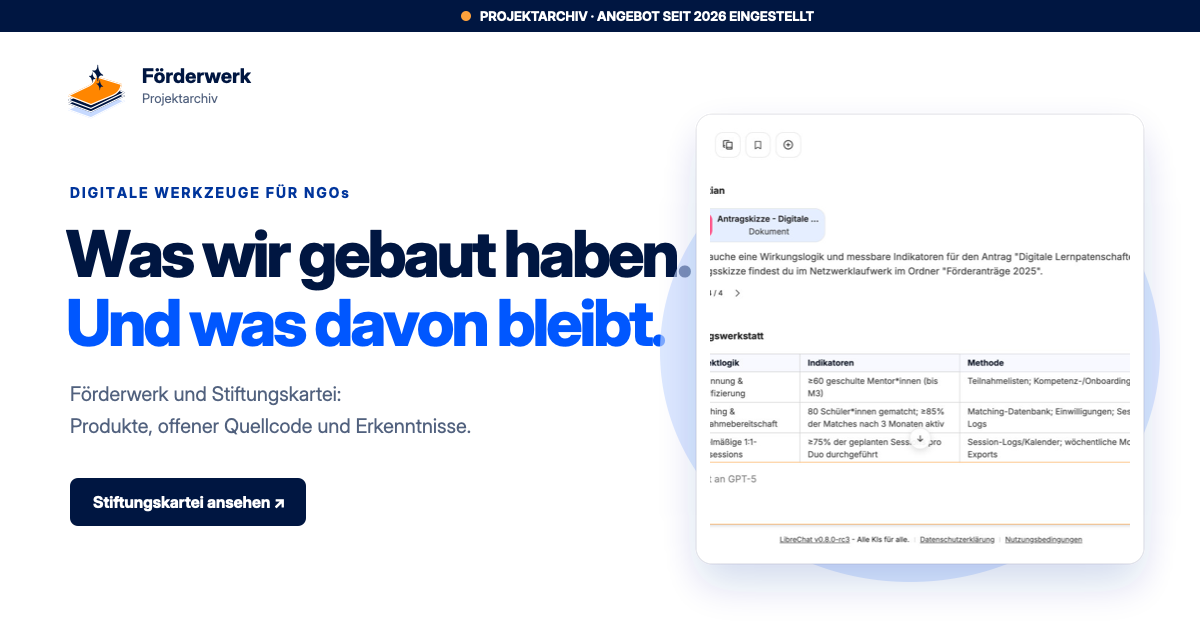
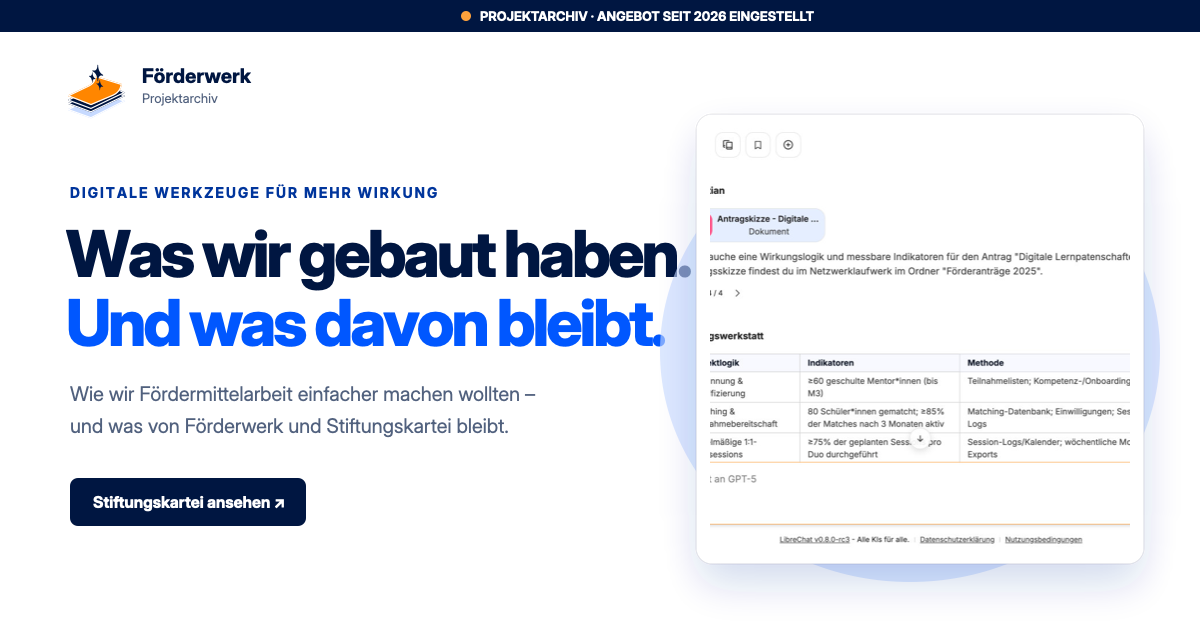
Refine Förderwerk archive copy

Changed region(s): [[0.0617, 0.6032, 0.4317, 0.6937], [0.2467, 0.3016, 0.37, 0.3317]]

diff --git a/src/views/StiftungskarteiCaseStudy.vue b/src/views/StiftungskarteiCaseStudy.vue
@@ -7,7 +7,7 @@ defineProps<{ homeHref: string; archivePath: (path: string) => string }>();
   <section class="case-hero page-width">
     <p class="eyebrow">Produktfallstudie · 2025–2026</p>
     <h1>Stiftungskartei.<br /><span>Smart suchen, mehr wirken.</span></h1>
-    <p class="hero-copy">Eine KI-gestützte Suchmaschine, die den Kontext gemeinnütziger Organisationen mit einer strukturierten Datenbasis von mehr als 12.000 deutschen Stiftungen verband.</p>
+    <p class="hero-copy">Stiftungskartei sollte die aufwändige Stiftungsrecherche einfacher machen: mit drei Suchwegen, mehr als 12.000 aufbereiteten Stiftungsprofilen und Ergebnissen, die nicht nur auf gleiche Wörter, sondern auf den inhaltlichen Zusammenhang schauten.</p>
     <div class="case-meta">
       <div><span>Rolle</span><strong>Produkt, UX, Data & Engineering</strong></div>
       <div><span>Phase</span><strong>Öffentliche Beta</strong></div>
@@ -22,34 +22,34 @@ defineProps<{ homeHref: string; archivePath: (path: string) => string }>();
   <section class="case-cover page-width"><img :src="archivePath('screenshots/stiftungskartei-home.png')" alt="Startseite der Stiftungskartei" /></section>
 
   <section class="case-narrative content-section page-width">
-    <div><p class="section-label">Ausgangslage</p><h2>Recherche kostete Zeit, bevor die eigentliche Arbeit begann.</h2></div>
-    <div class="narrative-copy"><p>Stiftungsinformationen waren über Register, Webseiten und Dokumente verteilt. Klassische Datenbanken verlangten passendes Vokabular und viel manuelle Vorqualifizierung – eine hohe Hürde für kleine Organisationen.</p><blockquote>Wie kann eine Organisation beschreiben, was sie bewirken will, statt erst die richtige Suchsprache lernen zu müssen?</blockquote></div>
+    <div><p class="section-label">Ausgangslage</p><h2>Die passende Stiftung zu finden war oft Detektivarbeit.</h2></div>
+    <div class="narrative-copy"><p>Informationen lagen verstreut in Registern, auf Webseiten und in PDF-Berichten. Wer Fördermöglichkeiten finden wollte, musste passende Suchbegriffe kennen, Ergebnisse vergleichen und jede Stiftung einzeln prüfen. Gerade für kleine Organisationen ging dabei viel Zeit verloren – Zeit, die an anderer Stelle fehlte.</p><blockquote>Wie können Organisationen beschreiben, was sie bewirken wollen, ohne zuerst die richtige Suchsprache lernen zu müssen?</blockquote></div>
   </section>
 
   <section class="feature-line page-width" aria-label="Produktmerkmale">
-    <article><Search :size="24" /><div><h3>Drei Einstiege</h3><p>KI-Suche, Namenssuche und Profi-Filter.</p></div></article>
-    <article><Sparkles :size="24" /><div><h3>Semantisches Matching</h3><p>Mission, Zielgruppen, Vorhaben und Region.</p></div></article>
-    <article><FileText :size="24" /><div><h3>Erklärbare Profile</h3><p>Kontakte, Projekte, Antragswege und Quellen.</p></div></article>
+    <article><Search :size="24" /><div><h3>Drei Wege zur Suche</h3><p>Über die Organisation, einen Namen oder gezielte Filter.</p></div></article>
+    <article><Sparkles :size="24" /><div><h3>Mehr als Schlagwörter</h3><p>Mission, Zielgruppen, Vorhaben und Region im Zusammenhang.</p></div></article>
+    <article><FileText :size="24" /><div><h3>Alles an einem Ort</h3><p>Kontakte, Projekte, Antragswege und Quellen im Überblick.</p></div></article>
   </section>
 
   <section class="content-section page-width screencast-section">
-    <div class="section-intro compact"><p class="section-label">Produkt in Bewegung</p><h2>Ein letzter Rundgang durch die Stiftungskartei.</h2><p>Die Aufnahme zeigt öffentliche Produktzustände mit neutralen Stiftungsdaten – ohne Accounts oder Nutzerdaten.</p></div>
+    <div class="section-intro compact"><p class="section-label">Produkt in Bewegung</p><h2>So sah Stiftungskartei in ihrer letzten öffentlichen Version aus.</h2><p>Der kurze Rundgang führt von der direkten Suche zu den Ergebnissen und weiter in ein Stiftungsprofil. Zu sehen sind ausschließlich öffentliche, neutrale Stiftungsdaten – keine Accounts oder Nutzerdaten.</p></div>
     <div class="video-frame"><video controls preload="metadata" :poster="archivePath('screenshots/stiftungskartei-home.png')" :src="archivePath('video/stiftungskartei-screencast.webm')" aria-label="Stiller Rundgang durch die archivierte Stiftungskartei"></video></div>
   </section>
 
   <section class="walkthrough content-section page-width">
-    <div class="walkthrough-copy"><p class="section-label">01 · Finden</p><h2>Von einem Namen zu einer überschaubaren Vorauswahl.</h2><p>Die direkte Suche zeigte relevante Themen, Zielgruppen und Beispiele unmittelbar in kompakten Ergebnisprofilen.</p></div>
+    <div class="walkthrough-copy"><p class="section-label">01 · Finden</p><h2>Vom Namen zur ersten brauchbaren Auswahl.</h2><p>Schon in der Trefferliste wurden Themen, Zielgruppen und geförderte Projekte sichtbar. So ließ sich schneller einschätzen, welche Stiftungen einen genaueren Blick wert waren.</p></div>
     <a class="screenshot-frame" :href="archivePath('screenshots/stiftungskartei-search.png')"><img :src="archivePath('screenshots/stiftungskartei-search.png')" alt="Suchergebnisliste der Stiftungskartei" loading="lazy" /></a>
   </section>
 
   <section class="walkthrough reverse content-section page-width">
-    <div class="walkthrough-copy"><p class="section-label">02 · Verstehen</p><h2>Struktur statt Linkliste.</h2><p>Detailseiten bündelten Stiftungszweck, Zielgruppen, Projekte, geografische Einschränkungen, Kontakte, Antragsmöglichkeiten und Quellen.</p></div>
+    <div class="walkthrough-copy"><p class="section-label">02 · Verstehen</p><h2>Alle wichtigen Informationen an einem Ort.</h2><p>Die Detailseiten bündelten Stiftungszweck, Zielgruppen, Projekte, regionale Einschränkungen, Kontakte, Antragsmöglichkeiten und Quellen. Aus verstreuten Fundstellen wurde ein Steckbrief, mit dem man weiterarbeiten konnte.</p></div>
     <a class="screenshot-frame tall" :href="archivePath('screenshots/stiftungskartei-foundation-detail.png')"><img :src="archivePath('screenshots/stiftungskartei-foundation-detail.png')" alt="Detailprofil einer Stiftung" loading="lazy" /></a>
   </section>
 
   <section class="architecture-section">
     <div class="page-width">
-      <div class="section-intro compact"><p class="section-label">Technische Architektur</p><h2>Vier Services, ein durchgängiger Recherchefluss.</h2></div>
+      <div class="section-intro compact"><p class="section-label">Technische Architektur</p><h2>Was im Hintergrund zusammenarbeitete.</h2><p>Die Oberfläche war nur der sichtbare Teil. Dahinter verbanden vier spezialisierte Dienste Produkterlebnis, Datenbasis und semantische Suche.</p></div>
       <div class="architecture-flow">
         <div><Layers3 :size="24" /><strong>Nuxt Frontend</strong><span>Suche und Profile</span></div><b aria-hidden="true">→</b>
         <div><ServerCog :size="24" /><strong>FastAPI</strong><span>API und Orchestrierung</span></div><b aria-hidden="true">→</b>
@@ -61,16 +61,16 @@ defineProps<{ homeHref: string; archivePath: (path: string) => string }>();
   </section>
 
   <section class="content-section page-width lessons-section">
-    <div class="section-intro compact"><p class="section-label">Was die Fallstudie zeigt</p><h2>Produktarbeit an der Schnittstelle von Daten, KI und Vertrauen.</h2></div>
+    <div class="section-intro compact"><p class="section-label">Was wir gelernt haben</p><h2>Gute Suche entsteht nicht allein durch gute Technik.</h2><p>Die Rückmeldungen aus dem Beta-Test haben uns gezeigt, wie eng Datenqualität, verständliche Ergebnisse und Vertrauen zusammengehören.</p></div>
     <ol class="lesson-list">
-      <li><span>01</span><h3>KI braucht überprüfbare Informationsstrukturen.</h3><p>Treffer müssen durch Quellen, Kriterien und Details nachvollziehbar bleiben.</p></li>
-      <li><span>02</span><h3>Ein Suchprodukt braucht mehrere mentale Modelle.</h3><p>Menschen beginnen mit ihrer Organisation, einem Namen oder konkreten Filtern.</p></li>
-      <li><span>03</span><h3>Datenqualität ist selbst ein Produkt.</h3><p>Sammeln, Bereinigen und Aktualisieren waren ein zentraler Teil des Nutzerwerts.</p></li>
+      <li><span>01</span><h3>Gute KI-Ergebnisse müssen nachvollziehbar bleiben.</h3><p>Quellen, Kriterien und Details waren genauso wichtig wie die Reihenfolge der Treffer.</p></li>
+      <li><span>02</span><h3>Menschen suchen auf unterschiedliche Weise.</h3><p>Manche starten mit ihrer Organisation, andere mit einem Stiftungsnamen oder konkreten Filtern.</p></li>
+      <li><span>03</span><h3>Die Datenbasis war ein Teil des Produkts.</h3><p>Das Sammeln, Prüfen und Aktualisieren der Informationen schuf erst die Grundlage für eine hilfreiche Suche.</p></li>
     </ol>
   </section>
 
   <section class="case-end">
-    <div class="page-width"><p class="section-label">Open Source</p><h2>Ein dokumentiertes Produktkapitel.<br />Offen für die Zukunft.</h2><p>Die interaktive Suche ist eingestellt. Aufnahmen bewahren den letzten Stand; der bereinigte Code bleibt öffentlich verfügbar.</p>
+    <div class="page-width"><p class="section-label">Open Source</p><h2>Der Betrieb ist beendet.<br />Die Idee bleibt zugänglich.</h2><p>Stiftungskartei ist nicht mehr als interaktive Suche verfügbar. Dieses Archiv bewahrt den letzten öffentlichen Stand – und der bereinigte Quellcode zeigt, wie wir das Produkt gebaut haben.</p>
       <div class="hero-actions"><a class="button primary" href="https://github.com/sichgeis/stiftungskartei" target="_blank" rel="noreferrer"><CodeXml :size="17" /> Quellcode auf GitHub</a><a class="button secondary" :href="homeHref">Zurück zum Projektarchiv <ArrowUpRight :size="17" /></a></div>
     </div>
   </section>

diff --git a/src/views/ArchiveHome.vue b/src/views/ArchiveHome.vue
@@ -10,9 +10,9 @@ const heroImage = `${import.meta.env.BASE_URL}hero-image-librechat.jpg`;
 
 <template>
   <section class="home-hero page-width">
-    <p class="eyebrow">Digitale Werkzeuge für gemeinnützige Organisationen</p>
+    <p class="eyebrow">Digitale Werkzeuge für mehr Wirkung</p>
     <h1>Was wir gebaut haben.<br /><span>Und was davon bleibt.</span></h1>
-    <p class="hero-copy">Förderwerk und Stiftungskartei waren ein unabhängiges Produktvorhaben für bessere Fördermittelrecherche und Wissensarbeit. Heute bewahrt dieses Archiv die Produkte, den offenen Quellcode und die Erkenntnisse dahinter.</p>
+    <p class="hero-copy">Förderwerk entstand aus einer einfachen Frage: Wie können digitale Werkzeuge gemeinnützigen Organisationen mehr Zeit für ihre eigentliche Arbeit geben? Gemeinsam mit unserer Community haben wir daraus Stiftungskartei, einen KI-Arbeitsplatz und eine eigene Datenpipeline entwickelt. Dieses Archiv erzählt, was daraus geworden ist – und was bleibt.</p>
     <div class="hero-actions">
       <a class="button primary" href="./stiftungskartei/">Stiftungskartei ansehen <ArrowUpRight :size="18" /></a>
       <a class="button secondary" href="https://github.com/sichgeis/stiftungskartei" target="_blank" rel="noreferrer"><CodeXml :size="18" /> Open-Source-Projekt</a>
@@ -32,8 +32,8 @@ const heroImage = `${import.meta.env.BASE_URL}hero-image-librechat.jpg`;
   <section id="projekte" class="content-section page-width">
     <div class="section-intro">
       <p class="section-label">Das Projekt</p>
-      <h2>Drei Bausteine für eine zugänglichere Fördermittelarbeit.</h2>
-      <p>Produktdesign, Datenarbeit und KI-gestützte Recherche wurden zu einem zusammenhängenden Werkzeugkasten.</p>
+      <h2>Drei Bausteine, die Fördermittelarbeit einfacher machen sollten.</h2>
+      <p>Wir wollten nicht nur einzelne Schritte digitalisieren, sondern den gesamten Weg zusammendenken: von der Recherche über die Arbeit mit Wissen bis zur passenden Förderung.</p>
     </div>
     <div class="project-list">
       <article v-for="project in projects" :key="project.number" class="project-row">
@@ -53,7 +53,7 @@ const heroImage = `${import.meta.env.BASE_URL}hero-image-librechat.jpg`;
     <div class="featured-inner page-width">
       <div class="featured-copy">
         <p class="section-label">Fallstudie 01</p><h2>Stiftungskartei</h2><p class="case-tagline">Smart suchen, mehr wirken.</p>
-        <p>Eine KI-gestützte Suchmaschine, die den Kontext einer Organisation mit einer strukturierten Datenbasis von mehr als 12.000 deutschen Stiftungen verband.</p>
+        <p>Mit Stiftungskartei fing alles an. Statt sich durch Listen, Webseiten und PDF-Berichte zu arbeiten, konnten Organisationen auf drei Wegen nach passenden Stiftungen suchen – und die wichtigsten Informationen direkt vergleichen.</p>
         <a class="button primary" href="./stiftungskartei/">Produktfallstudie öffnen <ArrowUpRight :size="18" /></a>
       </div>
       <a class="screenshot-frame" :href="archivePath('screenshots/stiftungskartei-home.png')"><img :src="archivePath('screenshots/stiftungskartei-home.png')" alt="Die ehemalige Startseite der Stiftungskartei" /></a>
@@ -62,9 +62,9 @@ const heroImage = `${import.meta.env.BASE_URL}hero-image-librechat.jpg`;
 
   <section id="open-source" class="content-section page-width open-source-section">
     <div class="open-source-mark"><CodeXml :size="32" /></div>
-    <div><p class="section-label">Jetzt Open Source</p><h2>Der Betrieb endet. Der Code bleibt zugänglich.</h2></div>
+    <div><p class="section-label">Jetzt Open Source</p><h2>Der Betrieb ist beendet. Der Code bleibt offen.</h2></div>
     <div class="open-source-copy">
-      <p>Stiftungskartei und die Datenpipeline Stiftungs-Sammler sind als bereinigte Archivfassungen unter Apache-2.0 veröffentlicht. Die Originaldaten können auf Anfrage beim Projektinhaber bezogen werden.</p>
+      <p>Wir haben Stiftungskartei und den Stiftungs-Sammler bereinigt, dokumentiert und unter Apache-2.0 veröffentlicht. So lassen sich unsere Entscheidungen nachvollziehen und die Projekte lokal weiterentwickeln. Wer mit den ursprünglichen Daten arbeiten möchte, kann sie bei mir anfragen.</p>
       <div class="source-links">
         <a href="https://github.com/sichgeis/stiftungskartei" target="_blank" rel="noreferrer">Stiftungskartei <ArrowUpRight :size="17" /></a>
         <a href="https://github.com/sichgeis/stiftungs-sammler" target="_blank" rel="noreferrer">Stiftungs-Sammler <ArrowUpRight :size="17" /></a>
@@ -73,7 +73,7 @@ const heroImage = `${import.meta.env.BASE_URL}hero-image-librechat.jpg`;
   </section>
 
   <section id="journal" class="content-section page-width journal-section">
-    <div class="section-intro compact"><p class="section-label">Produktjournal · 2025</p><h2>Acht Notizen aus Entwicklung und Beta-Test.</h2><p>Originaltexte über Problemverständnis, Technologie und Erkenntnisse aus der Community.</p></div>
+    <div class="section-intro compact"><p class="section-label">Produktjournal · 2025</p><h2>Acht Einblicke in Entwicklung und Beta-Test.</h2><p>Wie wir das Problem verstanden, technische Entscheidungen getroffen und gemeinsam mit der Community dazugelernt haben.</p></div>
     <div class="journal-list">
       <article v-for="(post, index) in journalEntries" :key="post.title">
         <span class="journal-number">{{ String(index + 1).padStart(2, "0") }}</span>
@@ -85,8 +85,8 @@ const heroImage = `${import.meta.env.BASE_URL}hero-image-librechat.jpg`;
 
   <section class="retirement-note">
     <div class="page-width">
-      <p class="section-label">Status</p><h2>Das Angebot ist eingestellt.<br />Die Arbeit bleibt sichtbar.</h2>
-      <div><p>Förderwerk, Stiftungskartei und die zugehörigen Online-Dienste werden nicht mehr aktiv betrieben.</p><p>Dieses statische Archiv dokumentiert die frühere Produkt- und Entwicklungsarbeit – ohne Accounts, Tracking oder laufende Server.</p></div>
+      <p class="section-label">Status</p><h2>Das Angebot ist beendet.<br />Die Arbeit bleibt sichtbar.</h2>
+      <div><p>Wir betreiben Förderwerk, Stiftungskartei und die dazugehörigen Online-Dienste nicht mehr weiter.</p><p>Was bleibt, ist dieses statische Archiv: ein Rückblick auf unsere Produktarbeit, die Technik dahinter und das, was wir gemeinsam mit der Community gelernt haben – ohne Accounts, Tracking oder laufende Anwendungsserver.</p></div>
     </div>
   </section>
 </template>

diff --git a/src/content.ts b/src/content.ts
@@ -31,28 +31,28 @@ export const metrics = [
 export const projects: Project[] = [
   {
     number: "01", icon: "search", kind: "Rechercheprodukt", title: "Stiftungskartei",
-    description: "Eine semantische Stiftungssuche mit drei Einstiegen und nachvollziehbaren Profilen für mehr als 12.000 deutsche Stiftungen.",
+    description: "Drei Suchwege und mehr als 12.000 aufbereitete Stiftungsprofile machten aus verstreuten Informationen eine übersichtliche Recherche.",
     technologies: ["Nuxt", "FastAPI", "Postgres", "Redis"], href: "./stiftungskartei/", linkLabel: "Fallstudie ansehen",
   },
   {
     number: "02", icon: "bot", kind: "KI-Arbeitsplatz", title: "Förderwerk",
-    description: "Eine datenschutzorientierte Chat- und Arbeitsumgebung für NGOs, ergänzt um Recherche, Wissensspeicher und Fördermittel-Workflows.",
+    description: "Ein datenschutzorientierter KI-Arbeitsplatz, der Chat, eigenes Wissen und Werkzeuge für die Fördermittelarbeit an einem Ort zusammenbrachte.",
     technologies: ["LibreChat", "RAG", "MCP", "Docker"],
   },
   {
     number: "03", icon: "database", kind: "Datenpipeline", title: "Stiftungs-Sammler",
-    description: "Die Recherche- und Verarbeitungspipeline hinter der Stiftungskartei: sammeln, extrahieren, strukturieren und für die Suche aufbereiten.",
+    description: "Im Hintergrund sammelte der Stiftungs-Sammler öffentliche Informationen, prüfte Quellen und verwandelte Webseiten und PDFs in nutzbare Profile.",
     technologies: ["Python", "MongoDB", "Web Search", "LLMs"], href: "https://github.com/sichgeis/stiftungs-sammler", external: true, linkLabel: "Quellcode ansehen",
   },
 ];
 
 export const journalEntries: JournalEntry[] = [
-  { title: "Warum Stiftungssuche so aufwändig ist – und wie Stiftungskartei das ändert", author: "Janine", date: "18. Mai 2025", image: "janine.webp", source: "herausforderungen-stiftungsrecherche", excerpt: "Zersplitterte Verzeichnisse und unvollständige Informationen machten Stiftungsrecherche zur Detektivarbeit." },
-  { title: "Förderwerk: Der smarte Weg zu Fördermitteln", author: "Hauke", date: "26. Mai 2025", image: "hauke.webp", source: "foerderwerk-smarter-weg", excerpt: "Die Produktvision hinter einem Werkzeugkasten für Recherche, Antragstellung und Reporting." },
-  { title: "Wir laden ein zum Beta-Testing", author: "Christian", date: "2. Juni 2025", image: "christian.webp", source: "wir-laden-zur-beta-ein", excerpt: "Die Einladung, eine neue Form der Stiftungssuche gemeinsam mit uns zu testen." },
-  { title: "Technik-Insights: Semantische Suche vs. klassische Schlagwortsuche", author: "Hauke", date: "9. Juni 2025", image: "hauke.webp", source: "technik-insights-semantische-suche", excerpt: "Warum Bedeutungsähnlichkeit hilfreicher sein kann als das Abgleichen einzelner Begriffe." },
-  { title: "Alex – Unser KI-Marketeer bringt Stiftungskartei ins Gespräch", author: "Christian", date: "16. Juni 2025", image: "christian.webp", source: "alex", excerpt: "Ein Experiment mit einem digitalen Teammitglied für Recherche und Kontaktentwürfe." },
-  { title: "Technik-Insights: So analysieren wir die deutsche Stiftungslandschaft", author: "Christian", date: "23. Juni 2025", image: "christian.webp", source: "technik-insights-stiftungsdatenbank", excerpt: "Vom öffentlichen Register bis zum strukturierten Steckbrief in der Datenbasis." },
-  { title: "Von der Community lernen: Insights aus dem Beta-Test", author: "Christian", date: "30. Juni 2025", image: "christian.webp", source: "beta-test-insights", excerpt: "Was die Feedback-Runde über Suchgewohnheiten, Vertrauen und Produktführung zeigte." },
-  { title: "Von der Idee zum Social Startup", author: "Christian", date: "8. Juli 2025", image: "christian.webp", source: "social-startup", excerpt: "Wie aus einer digitalen Produktidee ein wirkungsorientiertes Gründungsvorhaben wurde." },
+  { title: "Warum Stiftungssuche so aufwändig ist – und wie Stiftungskartei das ändert", author: "Janine", date: "18. Mai 2025", image: "janine.webp", source: "herausforderungen-stiftungsrecherche", excerpt: "Warum die Suche oft zur Detektivarbeit wird – und wie semantische Suche den Kontext eines Vorhabens einbezieht." },
+  { title: "Förderwerk: Der smarte Weg zu Fördermitteln", author: "Hauke", date: "26. Mai 2025", image: "hauke.webp", source: "foerderwerk-smarter-weg", excerpt: "Die Vision eines Werkzeugkastens, der von der ersten Recherche bis zur Berichterstattung begleitet." },
+  { title: "Wir laden ein zum Beta-Testing", author: "Christian", date: "2. Juni 2025", image: "christian.webp", source: "wir-laden-zur-beta-ein", excerpt: "Warum wir nicht im Elfenbeinturm entwickeln wollten und die Community früh zum Testen eingeladen haben." },
+  { title: "Technik-Insights: Semantische Suche vs. klassische Schlagwortsuche", author: "Hauke", date: "9. Juni 2025", image: "hauke.webp", source: "technik-insights-semantische-suche", excerpt: "Wie eine Suche Bedeutungen, Zusammenhänge und ähnliche Begriffe erkennt – statt nur Wörter abzugleichen." },
+  { title: "Alex – Unser KI-Marketeer bringt Stiftungskartei ins Gespräch", author: "Christian", date: "16. Juni 2025", image: "christian.webp", source: "alex", excerpt: "Was wir aus einem digitalen Teammitglied für Recherche und persönliche Ansprache gelernt haben." },
+  { title: "Technik-Insights: So analysieren wir die deutsche Stiftungslandschaft", author: "Christian", date: "23. Juni 2025", image: "christian.webp", source: "technik-insights-stiftungsdatenbank", excerpt: "Wie aus verstreuten Webseiten, PDFs und Registern eine strukturierte Stiftungsdatenbank entstand." },
+  { title: "Von der Community lernen: Insights aus dem Beta-Test", author: "Christian", date: "30. Juni 2025", image: "christian.webp", source: "beta-test-insights", excerpt: "Was uns die erste Feedback-Runde über gute Suchergebnisse, klare Bedienung und fehlende Funktionen gezeigt hat." },
+  { title: "Von der Idee zum Social Startup", author: "Christian", date: "8. Juli 2025", image: "christian.webp", source: "social-startup", excerpt: "Warum Technologie für uns kein Selbstzweck war, sondern ein Werkzeug für mehr Teilhabe und Wirkung." },
 ];

diff --git a/index.html b/index.html
@@ -20,7 +20,7 @@
     />
     <meta
       name="description"
-      content="Förderwerk und Stiftungskartei: Produkte, offener Quellcode und Erkenntnisse aus einem unabhängigen Softwareprojekt für gemeinnützige Organisationen."
+      content="Das Archiv von Förderwerk und Stiftungskartei: digitale Werkzeuge, offener Quellcode und Erfahrungen aus der Fördermittelarbeit mit gemeinnützigen Organisationen."
     />
 
     <!-- Open Graph / Facebook -->
@@ -38,7 +38,7 @@
     />
     <meta
       property="og:description"
-      content="Produkte, offener Quellcode und Erkenntnisse. Was wir gebaut haben – und was davon bleibt."
+      content="Wie wir Fördermittelarbeit einfacher machen wollten – und was von Förderwerk und Stiftungskartei bleibt."
     />
     <meta
       property="og:image"
@@ -61,7 +61,7 @@
     />
     <meta
       name="twitter:description"
-      content="Produkte, offener Quellcode und Erkenntnisse. Was wir gebaut haben – und was davon bleibt."
+      content="Wie wir Fördermittelarbeit einfacher machen wollten – und was von Förderwerk und Stiftungskartei bleibt."
     />
     <meta
       name="twitter:image"

diff --git a/src/components/SiteFooter.vue b/src/components/SiteFooter.vue
@@ -6,7 +6,7 @@ defineProps<{ homeHref: string }>();
   <footer>
     <a class="footer-brand" :href="homeHref">
       <img :src="`${homeHref}foerderwerk-mono-transparent-logo.svg`" alt="" />
-      <span><strong>Förderwerk Projektarchiv</strong><small>Das operative Angebot ist eingestellt.</small></span>
+      <span><strong>Förderwerk Projektarchiv</strong><small>Förderwerk wird nicht mehr betrieben.</small></span>
     </a>
     <div class="footer-links">
       <a href="https://github.com/sichgeis" target="_blank" rel="noreferrer">GitHub</a>
